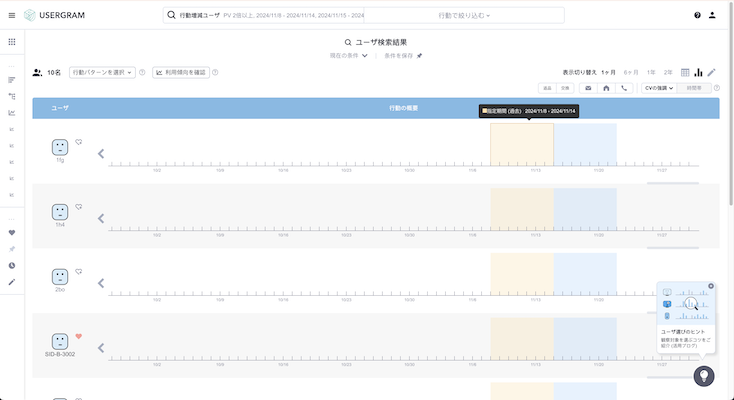
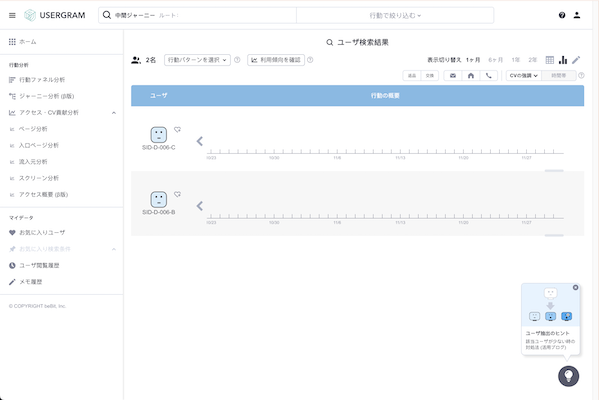
Update usergram images

diff --git a/src/components/portfolio/BebitUsergram.vue b/src/components/portfolio/BebitUsergram.vue
@@ -47,6 +47,7 @@ import usergramImage1 from "@/assets/portfolio/usergram-1.png";
 import usergramImage2 from "@/assets/portfolio/usergram-2.png";
 import usergramImage3 from "@/assets/portfolio/usergram-3.png";
 import usergramImage4 from "@/assets/portfolio/usergram-4.png";
+import usergramImage5 from "@/assets/portfolio/usergram-5.png";
 
 const images = [
   {
@@ -63,6 +64,10 @@ const images = [
   },
   {
     src: usergramImage4,
+    isDesktop: true,
+  },
+  {
+    src: usergramImage5,
     isDesktop: true,
   },
 ];
